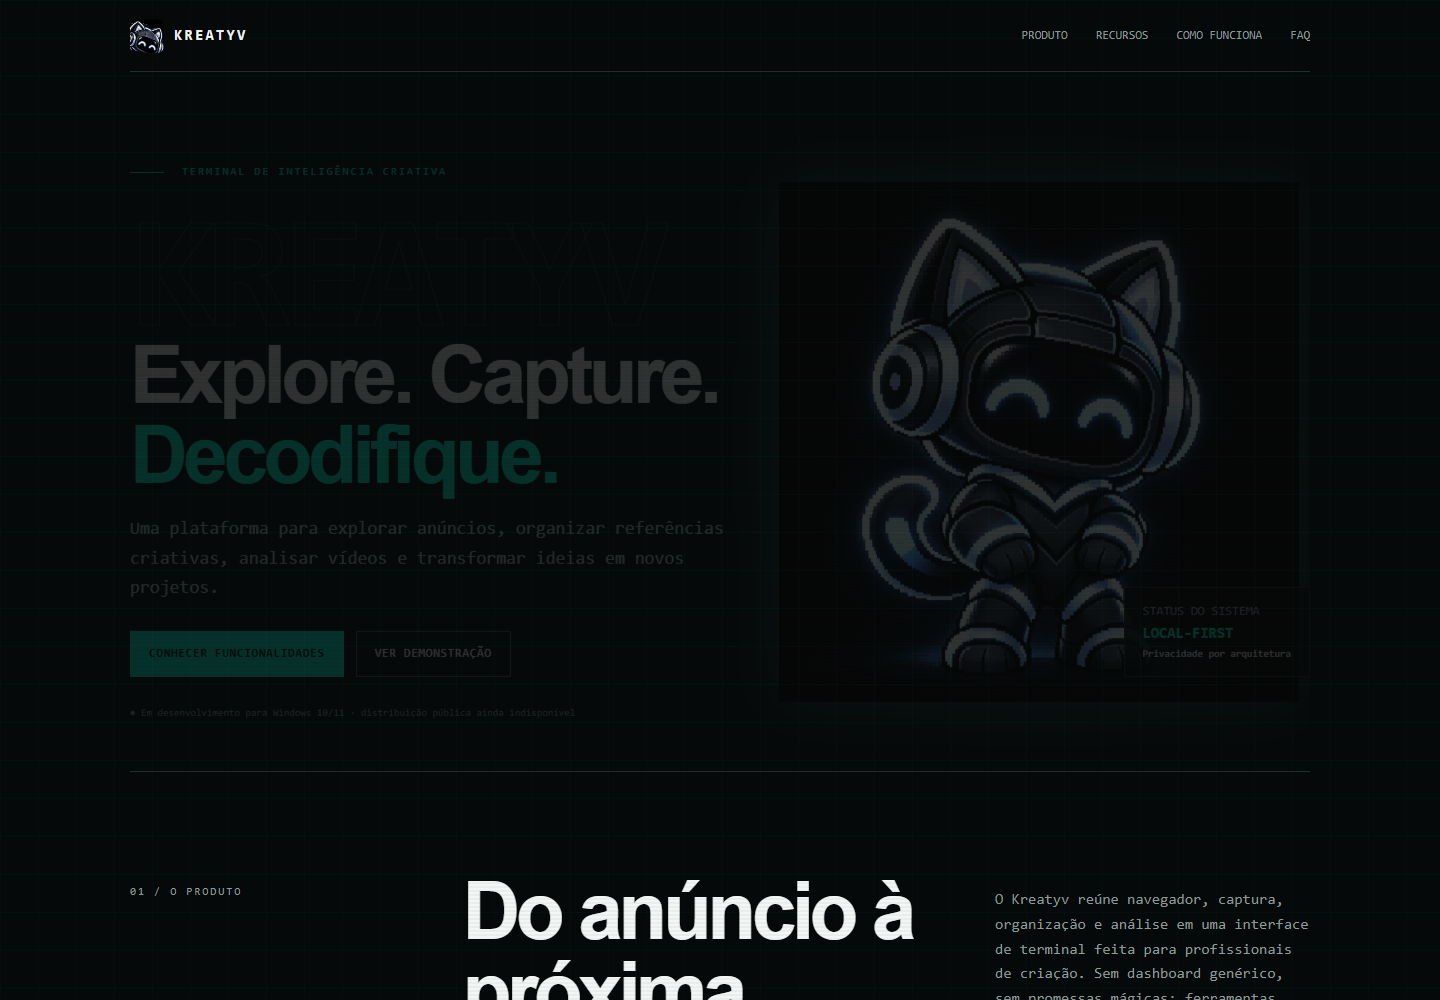
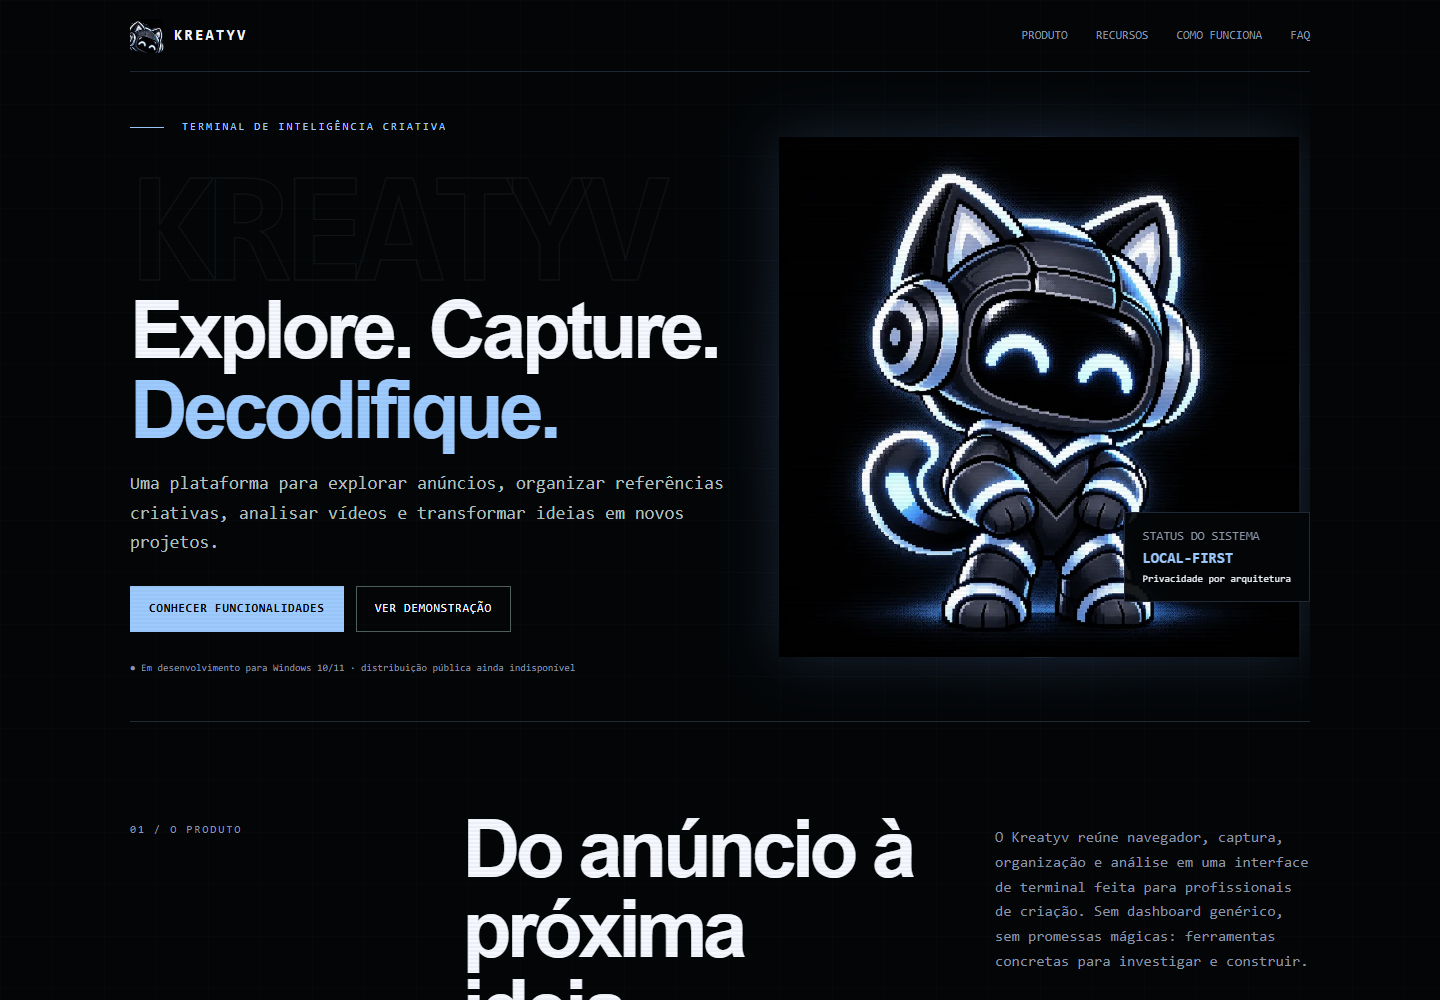
style: simplificar identidade visual em azul e branco

diff --git a/overrides.css b/overrides.css
@@ -1,7 +1,45 @@
+:root {
+  --bg: #030507;
+  --panel: #080b11;
+  --line: #202838;
+  --text: #f5f8ff;
+  --muted: #8c96a8;
+  --accent: #9ecbff;
+  --blue: #9ecbff;
+}
+
 .reveal { opacity: 1; transform: none; }
 html, body { overflow-x: hidden; }
 .hero-copy, .section > * { min-width: 0; }
 .lead, .availability { overflow-wrap: anywhere; }
+
+body {
+  background-image:
+    linear-gradient(rgba(158, 203, 255, .018) 1px, transparent 1px),
+    linear-gradient(90deg, rgba(158, 203, 255, .018) 1px, transparent 1px);
+  background-size: 52px 52px;
+}
+
+.hero { min-height: 650px; }
+.hero h1 { opacity: .13; }
+.hero-art { min-height: 590px; }
+.orbit {
+  border-color: rgba(158, 203, 255, .2);
+  box-shadow: 0 0 64px rgba(99, 159, 230, .08);
+}
+.mascot { filter: drop-shadow(0 0 28px rgba(99, 159, 230, .2)); }
+.button.primary { color: #05070b; }
+.feature-grid article:hover { background: #0b1018; }
+.req-grid .accent { border-color: #354862; }
+.brand-sample strong,
+.status-card strong,
+.terminal-card b,
+.terminal-card span { color: var(--accent); }
+.section { padding-top: 88px; padding-bottom: 88px; }
+.feature-grid article { min-height: 190px; background: rgba(6, 9, 14, .7); }
+.screen { border-color: #293345; }
+.screen:hover { box-shadow: 0 12px 42px rgba(20, 42, 72, .22); }
+.status-card { background: rgba(3, 5, 7, .92); }
 
 @media (max-width: 620px) {
   .hero { padding-top: 42px; }
